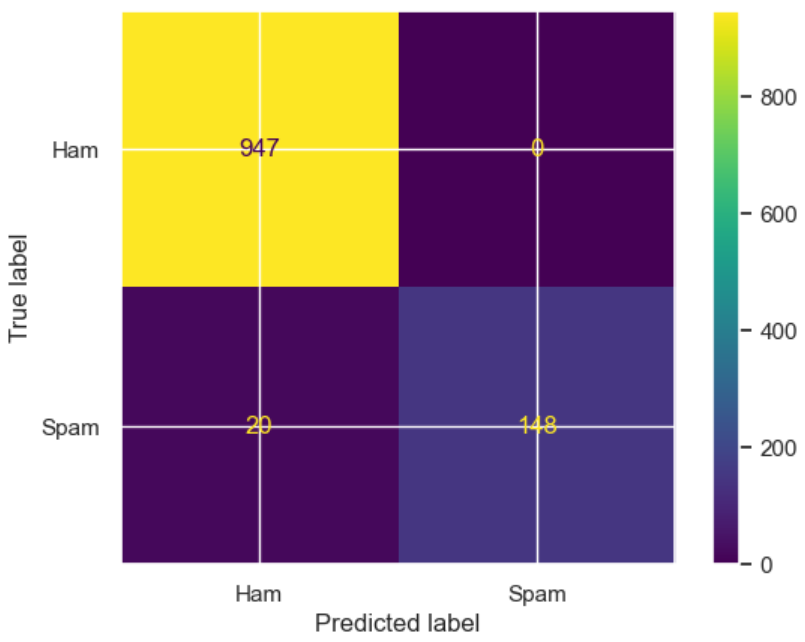
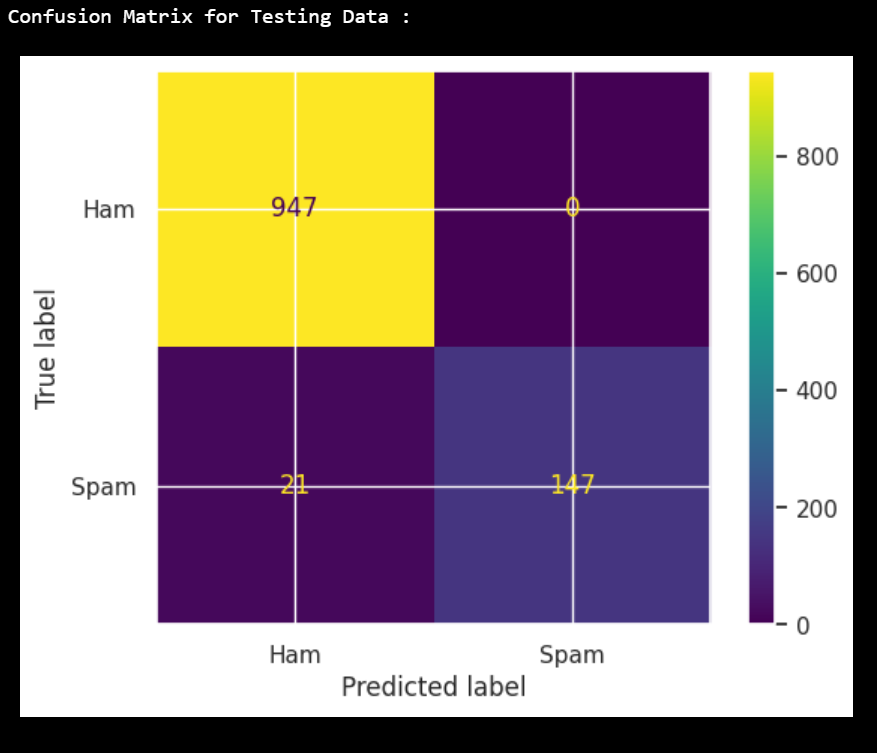
Project Added

diff --git a/README.md b/README.md
@@ -131,5 +131,14 @@ The process involved the following steps:
 
 ## <br>**➲ Conclusion:**
 
+* **The Support Vector Machine classifier** demonstrates superior performance, achieving a high training accuracy of **99%** and a commendable testing accuracy of **98%**. Furthermore, its precision, recall, and F1-scores for both classes on both the training and testing datasets are consistently high, indicating robust performance across the board. Therefore, based on these evaluation metrics, we can confidently conclude that the SVC classifier outperforms other models and is the best choice for this classification task.*
 
-* **The Random Forest classifier** demonstrates superior performance, achieving a high training accuracy of **99.9%** and a commendable testing accuracy of **98.2%**. Furthermore, its precision, recall, and F1-scores for both classes on both the training and testing datasets are consistently high, indicating robust performance across the board. Therefore, based on these evaluation metrics, we can confidently conclude that the Random Forest classifier outperforms other models and is the best choice for this classification task.*
+**Classification Report**
+
+-  The SVC model demonstrates excellent performance in classifying ham messages, achieving high precision, recall, and F1-score. However, it shows slightly lower recall for spam messages, indicating that there is room for improvement in identifying all spam messages correctly. Overall, with an accuracy of 98%, the SVC model effectively distinguishes between ham and spam messages, making it a reliable choice for spam detection tasks.
+
+**Confusion Matrix**
+
+- SVC model is performing well in correctly identifying ham messages (class 0), with 947 instances correctly classified as ham and none incorrectly classified as spam. However, for spam messages (class 1), there are 21 instances incorrectly classified as ham and 147 instances correctly classified as spam.
+
+- From this confusion matrix, we can see that the model is not failing to identify spam messages correctly (i.e., it is not classifying ham as spam). Instead, it is missing some spam messages, leading to false negatives. The model is performing well in identifying ham messages.
